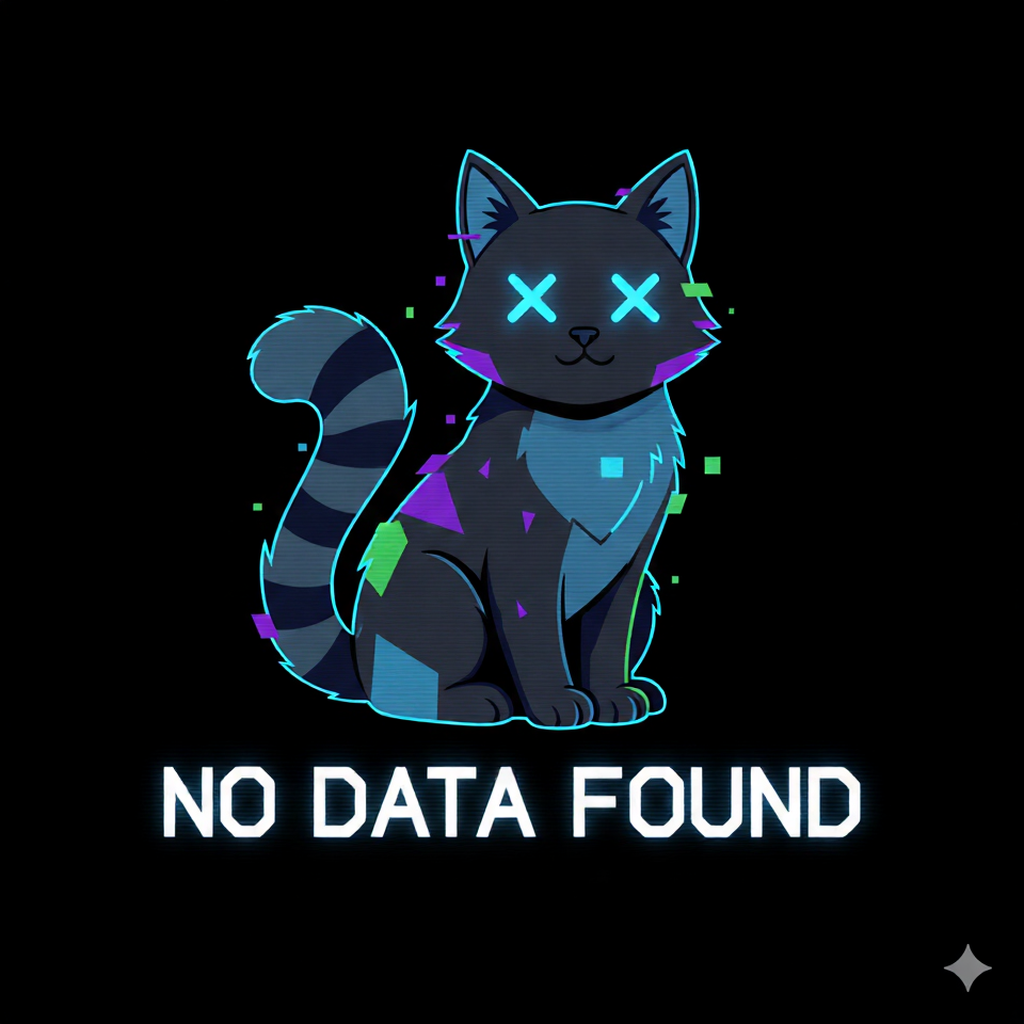
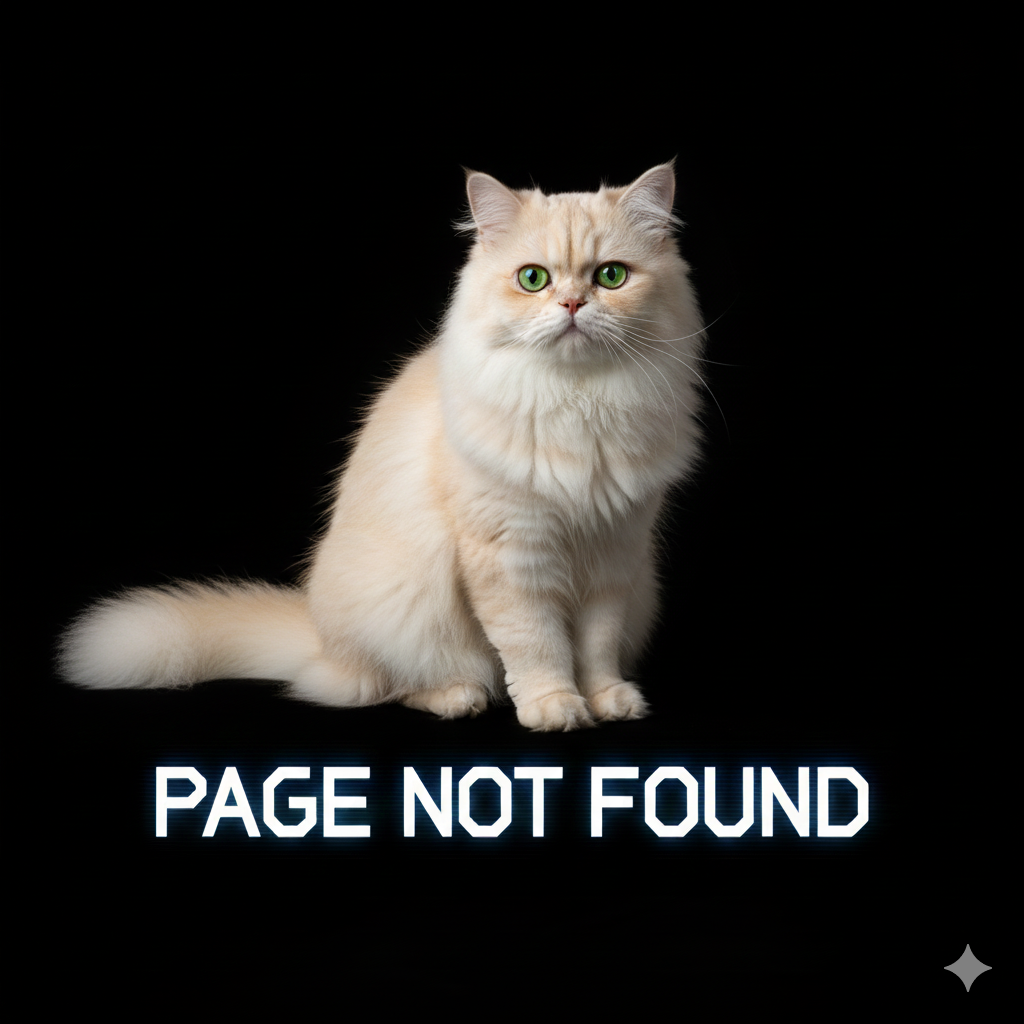
Add PageNotFound integration and enhance SeatLayout component

Changed region(s): [[0.0312, 0.125, 0.875, 0.8438]]

diff --git a/src/pages/SeatLayout.jsx b/src/pages/SeatLayout.jsx
@@ -1,9 +1,211 @@
-import React from "react";
+import React, { useState, useEffect } from "react";
+import { useParams, useNavigate } from "react-router-dom";
+import { dummyShowsData } from "../assets/assets";
+import { dummyDateTimeData } from "../assets/assets";
+import PageNotFound from "../components/PageNotFound";
+import { ClockIcon, MoveRight } from "lucide-react";
+import BlurCircle from "../components/BlurCircle";
+import toast from "react-hot-toast";
 
 function SeatLayout() {
+  const { id, date } = useParams();
+  const navigate = useNavigate();
+  const [selectedSeats, setSelectedSeats] = useState([]);
+  const [selectedTime, setSelectedTime] = useState(null);
+  const [show, setShow] = useState(null);
+
+  const loadShow = async () => {
+    const foundShow = await dummyShowsData.find((show) => show._id === id);
+    if (foundShow) {
+      setShow({
+        movie: foundShow,
+        dateTime: dummyDateTimeData,
+      });
+    } else {
+      navigate("/");
+    }
+  };
+
+  useEffect(() => {
+    loadShow();
+  }, [id, date, navigate]);
+
+  if (!show?.movie) {
+    return <PageNotFound />;
+  }
+
+  // Seat Grid
+  const seatGrid = [
+    { row: "A", seatNo: [1, 2, 3, 4, 5, 6, 7, 8, 9] },
+    { row: "B", seatNo: [1, 2, 3, 4, 5, 6, 7, 8, 9] },
+    { row: "C", seatNo: [1, 2, 3, 4, 5, 6, 7, 8, 9, 10, 11, 12, 13, 14, 15, 16, 17, 18] },
+    { row: "D", seatNo: [1, 2, 3, 4, 5, 6, 7, 8, 9, 10, 11, 12, 13, 14, 15, 16, 17, 18] },
+    { row: "E", seatNo: [1, 2, 3, 4, 5, 6, 7, 8, 9, 10, 11, 12, 13, 14, 15, 16, 17, 18] },
+    { row: "F", seatNo: [1, 2, 3, 4, 5, 6, 7, 8, 9, 10, 11, 12, 13, 14, 15, 16, 17, 18] },
+    { row: "G", seatNo: [1, 2, 3, 4, 5, 6, 7, 8, 9, 10, 11, 12, 13, 14, 15, 16, 17, 18] },
+  ].map((row) => ({
+    ...row,
+    seats: row.seatNo.map((num) => `${row.row}${num}`),
+  }));
+
+  console.log(seatGrid);
+
+  const handleProceedToPayment = () => {
+    if(selectedTime === null) {
+      return toast.error("Please select a time slot");
+    }
+    if(selectedSeats.length === 0) {
+      return toast.error("Please select at least one seat");
+    }
+    navigate(`/payment/${id}/${date}/${selectedTime}`);
+    toast.success("Proceeding to payment");
+  };
+
   return (
-    <div>
-      <h1>SeatLayout</h1>
+    <div className="flex flex-col lg:flex-row px-4 sm:px-6 md:px-8 lg:px-12 xl:px-16 2xl:px-24 py-12 sm:py-16 md:py-20 lg:py-36 gap-6 sm:gap-8 md:gap-10 lg:gap-12">
+      {/* Available Timings Section */}
+      <div className="flex flex-col gap-4 sm:gap-5 md:gap-6 w-full lg:w-auto lg:min-w-[280px] xl:min-w-[320px]">
+        <div className="relative p-4 sm:p-6 md:p-8 bg-primary/10 border border-primary/20 rounded-xl">
+          <BlurCircle top="-100px" right="-50px" />
+          <p className="text-base sm:text-lg md:text-xl font-bold text-center mb-4 sm:mb-5 md:mb-6 text-white">
+            Available Timings
+          </p>
+          <div className="flex flex-col gap-2 sm:gap-3">
+          <p className="text-sm sm:text-base text-white font-semibold text-center pb-2 border-b border-gray-700">{date}</p>
+
+            {show?.dateTime?.[date]?.map((time) => (
+              <div
+                key={time.time}
+                onClick={() => setSelectedTime(time.time)}
+                className={`cursor-pointer transition-colors duration-200 p-2 sm:p-3 rounded-lg hover:bg-primary/20 ${
+                  selectedTime === time.time
+                    ? "text-primary bg-primary/30"
+                    : "text-gray-300"
+                }`}
+              >
+                <p className="font-semibold flex items-center gap-2 text-sm sm:text-base">
+                  <ClockIcon className="w-4 h-4 sm:w-5 sm:h-5" />
+                  {new Date(time.time).toLocaleTimeString("en-US", {
+                    hour: "2-digit",
+                    minute: "2-digit",
+                    hour12: true,
+                  })}
+                </p>
+              </div>
+            ))}
+          </div>
+        </div>
+      </div>
+
+      {/* Seat Layout Section */}
+      <div className="flex-1 flex flex-col gap-4 sm:gap-5 md:gap-6">
+        <div className="flex items-center justify-between mb-2 sm:mb-3 md:mb-4">
+          <p className="text-base sm:text-lg md:text-xl font-bold text-white">
+            Select Your Seats
+          </p>
+          {selectedSeats.length > 0 && (
+            <p className="text-sm sm:text-base text-red-400 font-semibold border border-red-400 rounded-full px-2 py-1">
+              {selectedSeats.length} seat{selectedSeats.length > 1 ? "s" : ""}{" "}
+              selected
+            </p>
+          )}
+        </div>
+
+        {/* Seat Grid */}
+        <div className="p-4 sm:p-6 md:p-8 bg-gray-900/50 rounded-xl border border-gray-700 overflow-x-auto">
+          {/* Screen indicator */}
+          <div className="text-center mb-6 sm:mb-8 md:mb-10">
+            <div className="inline-block px-8 sm:px-12 md:px-16 lg:px-20 py-2 bg-gradient-to-b from-gray-600 to-gray-800 rounded-t-lg">
+              <p className="text-xs sm:text-sm md:text-base text-gray-300 font-semibold">SCREEN SIDE VIEW</p>
+            </div>
+          </div>
+          
+          {/* Seat rows */}
+          <div className="flex flex-col gap-2 sm:gap-3 md:gap-4 items-center">
+            {seatGrid.map((row) => (
+              <div key={row.row} className="flex items-center gap-2 sm:gap-3 md:gap-4 w-full">
+                {/* Row label */}
+                <div className="shrink-0 w-6 sm:w-8 md:w-10 flex items-center justify-center">
+                  <p className="text-xs sm:text-sm md:text-base font-semibold text-gray-400">
+                    {row.row}
+                  </p>
+                </div>
+                
+                {/* Seats in row */}
+                <div className="flex flex-wrap gap-1.5 sm:gap-2 md:gap-2.5 justify-center flex-1">
+                  {row.seats.map((seat) => {
+                    const isSelected = selectedSeats.includes(seat);
+                    const handleSeatClick = () => {
+                      if(selectedTime === null) {
+                        return toast.error("Please select a time slot first");
+                      }
+                      if (isSelected) {
+                        setSelectedSeats(selectedSeats.filter((s) => s !== seat));
+                      } else {
+                        setSelectedSeats([...selectedSeats, seat]);
+                      }
+                    };
+                    
+                    return (
+                      <button
+                        key={seat}
+                        onClick={handleSeatClick}
+                        className={`
+                          w-6 h-6 sm:w-7 sm:h-7 md:w-8 md:h-8 lg:w-8 lg:h-8
+                          border-2 rounded-md
+                          transition-all duration-200
+                          flex items-center justify-center
+                          text-[8px] sm:text-[10px] md:text-xs font-semibold
+                          ${
+                            isSelected
+                              ? "bg-primary border-primary text-white"
+                              : " border-primary text-gray-400 hover:border-gray-600 hover:bg-gray-800"
+                          }
+                        `}
+                        title={seat}
+                      >
+                        {seat.replace(row.row, "")}
+                      </button>
+                    );
+                  })}
+                </div>
+              </div>
+            ))}
+          </div>
+          
+          {/* Legend */}
+          <div className="flex flex-wrap items-center justify-center gap-4 sm:gap-6 md:gap-8 mt-6 sm:mt-8 md:mt-10 pt-4 sm:pt-6 border-t border-gray-700">
+            <div className="flex items-center gap-2">
+              <div className="w-6 h-6 sm:w-7 sm:h-7 md:w-8 md:h-8 border-2 border-primary bg-primary/20 rounded-md"></div>
+              <span className="text-xs sm:text-sm text-gray-400">Available</span>
+            </div>
+            <div className="flex items-center gap-2">
+              <div className="w-6 h-6 sm:w-7 sm:h-7 md:w-8 md:h-8 border-2 border-primary bg-primary rounded-md"></div>
+              <span className="text-xs sm:text-sm text-gray-400">Selected</span>
+            </div>
+            <div className="flex items-center gap-2">
+              <div className="w-6 h-6 sm:w-7 sm:h-7 md:w-8 md:h-8 border-2 border-gray-600 bg-gray-800 rounded-md"></div>
+              <span className="text-xs sm:text-sm text-gray-400">Occupied</span>
+            </div>
+            <div className="flex items-center gap-2">
+              {/* Selected Seat numbers */}
+              {/* When selected seats is Zero return " " */}
+              <p className={`text-xs sm:text-sm`}>{selectedSeats.length === 0 ? " " : selectedSeats.length > 1 ? "Seats Selected: " : "Seat Selected: "}</p>
+              {selectedSeats.length > 0 ? (
+                selectedSeats.map((seat, index) => (
+                  <div key={seat} className="text-xs sm:text-sm">
+                    <span className="text-xs sm:text-sm font-semibold">{seat.replace(seat.row, "")}{index < selectedSeats.length - 1 ? ", " : ""}</span>
+                  </div>
+                ))
+              ) : (
+                null
+              )}
+            </div>
+          </div>
+
+        </div>
+        <button onClick={handleProceedToPayment} className="w-fit mx-auto bg-primary text-white px-4 py-2 rounded-md flex items-center gap-2">Proceed to Payment <MoveRight className="w-4 h-4" /></button>
+      </div>
     </div>
   );
 }

diff --git a/src/components/PageNotFound.jsx b/src/components/PageNotFound.jsx
@@ -7,7 +7,6 @@ function PageNotFound() {
   return (
     <div className="flex flex-col items-center justify-center h-screen w-full px-4 sm:px-6 md:px-8 lg:px-12 xl:px-16 2xl:px-24 py-4 sm:py-6 md:py-8 overflow-hidden">
       <div className="flex flex-col items-center justify-center w-full max-w-4xl space-y-4 sm:space-y-5 md:space-y-6 lg:space-y-8">
-        {/* Image - Responsive sizing with max height constraints */}
         <div className="w-full max-w-[280px] sm:max-w-[320px] md:max-w-[400px] lg:max-w-[480px] xl:max-w-[560px] 2xl:max-w-[640px] shrink-0">
           <img 
             src={assets.pageNotFound} 
@@ -17,7 +16,7 @@ function PageNotFound() {
         </div>
         
         <p className="absolute top-110 left-120 text-xs sm:text-sm md:text-base lg:text-lg xl:text-xl text-gray-400 text-center max-w-md sm:max-w-lg md:max-w-xl lg:max-w-2xl px-2">
-          The page you are looking for does not exist.
+          Oops! The page you are looking for does not exist.
         </p>
         
         <button 

diff --git a/src/components/Loading.jsx b/src/components/Loading.jsx
@@ -1,0 +1,14 @@
+
+import React from "react";
+
+function Loading() {
+  return (
+    <div className="flex items-center justify-center min-h-screen px-4 sm:px-6 md:px-8 lg:px-12 xl:px-16 2xl:px-24 py-4 sm:py-6 md:py-8 overflow-hidden">
+      <div className="flex flex-col items-center justify-center w-full max-w-4xl space-y-4 sm:space-y-5 md:space-y-6 lg:space-y-8"  style={{ position: 'absolute', top: '50%', left: '50%', transform: 'translate(-50%, -50%)' }}>
+        <div className="w-10 h-10 border-t-6 border-b-6 border-red-500 rounded-full animate-spin"></div>
+        <p className=" text-2xl font-bold animate-pulse text-white ">Loading...</p>
+      </div>
+    </div>
+  );
+}
+export default Loading;

diff --git a/src/App.jsx b/src/App.jsx
@@ -8,6 +8,7 @@ import SeatLayout from "./pages/SeatLayout";
 import Favourite from "./pages/Favourite";
 import Navbar from "./components/Navbar";
 import Footer from "./components/Footer";
+import PageNotFound from "./components/PageNotFound";
 
 function App() {
   const location = useLocation();
@@ -20,6 +21,7 @@ function App() {
         {!isAdminRoute && <Navbar />}
         <main className="grow">
           <Routes>
+            <Route path="*" element={<PageNotFound />} />
             <Route path="/" element={<Home />} />
             <Route path="/movies/:id" element={<MovieDetails />} />
             <Route path="/movies" element={<Movies />} />

diff --git a/src/pages/MovieDetails.jsx b/src/pages/MovieDetails.jsx
@@ -14,6 +14,7 @@ import {
   MoveRight,
 } from "lucide-react";
 import PageNotFound from "../components/PageNotFound";
+import Loading from "../components/Loading";
 function MovieDetails() {
   const { id } = useParams();
   const [show, setShow] = useState(null);
@@ -126,6 +127,7 @@ function MovieDetails() {
   ) : (
     <div className="px-6 md:px-16 lg:px-24 xl:px-24 overflow-hidden py-10">
       <PageNotFound />
+      <Loading />
     </div>
   );
 }
